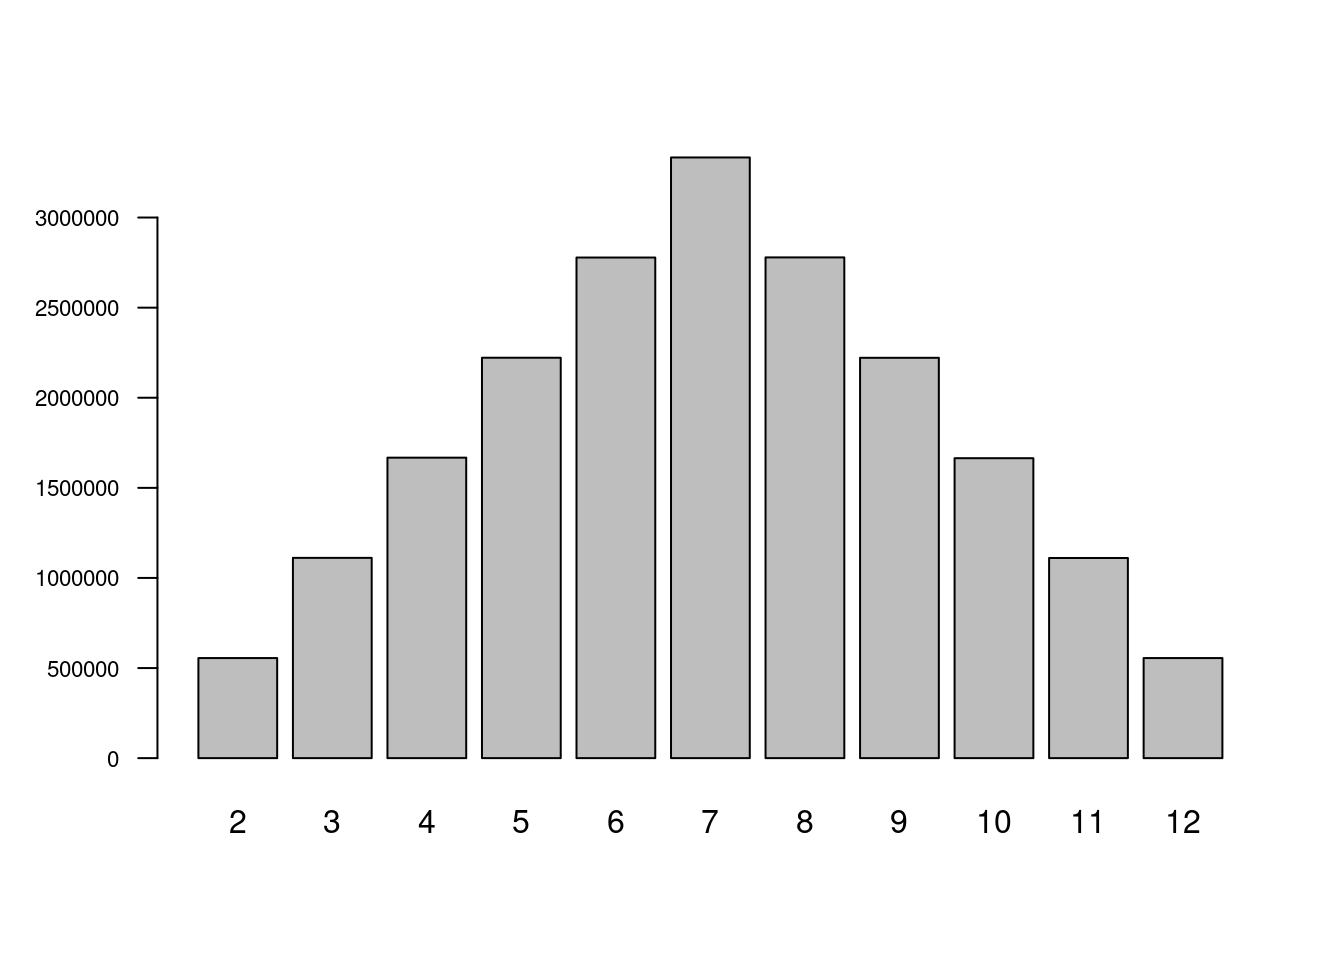
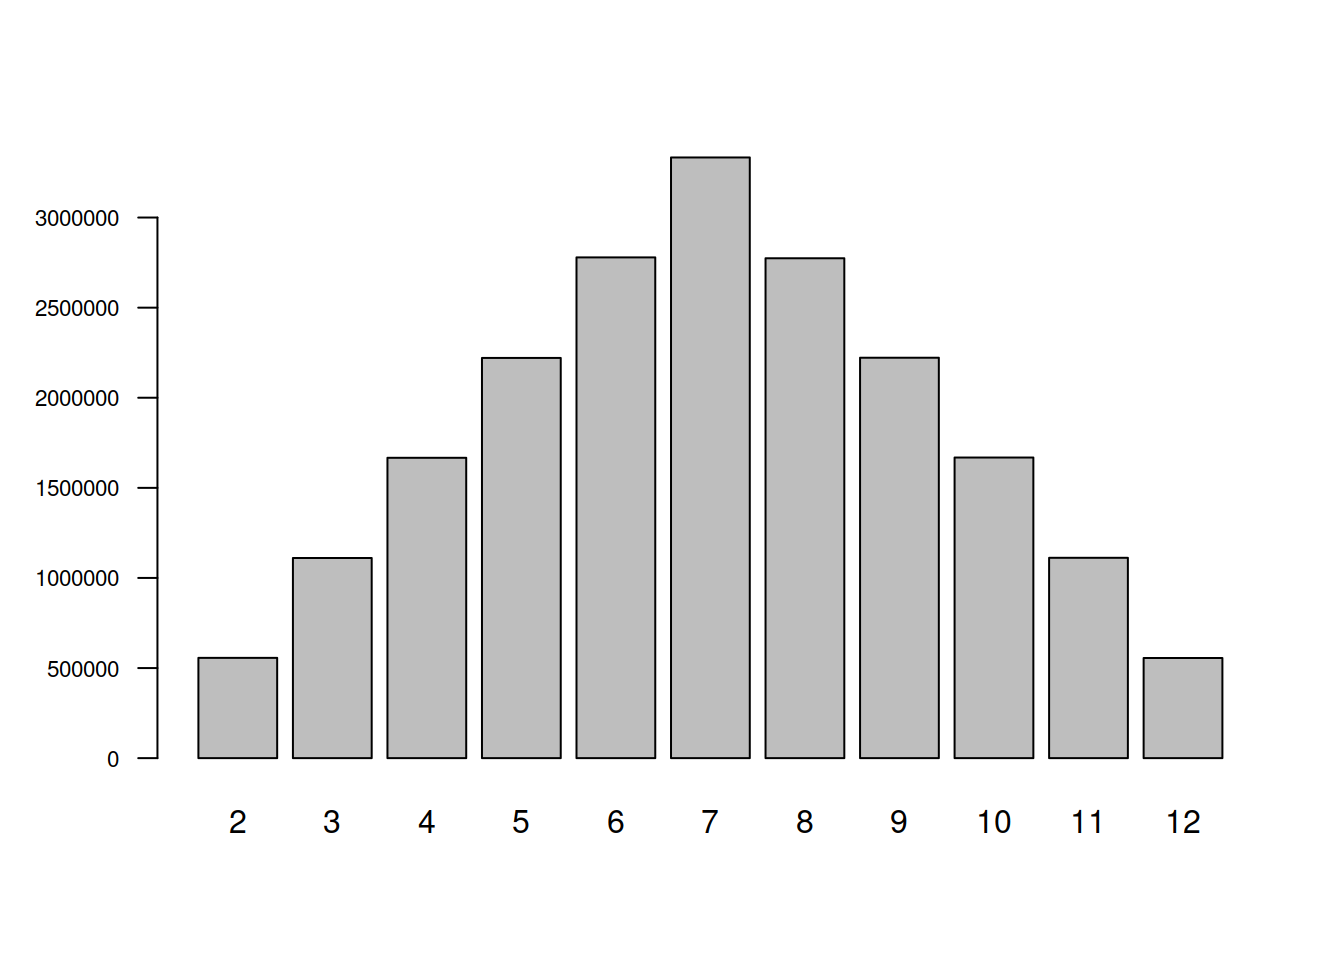
ajustes codigo  201

diff --git a/codigo201.html b/codigo201.html
@@ -615,6 +615,19 @@ div.tocify {
     </li>
   </ul>
 </li>
+<li class="dropdown">
+  <a href="#" class="dropdown-toggle" data-toggle="dropdown" role="button" data-bs-toggle="dropdown" aria-expanded="false">
+    Parciales
+     
+    <span class="caret"></span>
+  </a>
+  <ul class="dropdown-menu" role="menu">
+    <li class="dropdown-header">Segundo parcial</li>
+    <li>
+      <a href="segundo_parcial.html"></a>
+    </li>
+  </ul>
+</li>
       </ul>
       <ul class="nav navbar-nav navbar-right">
         <li>
@@ -706,17 +719,17 @@ barplot(table(suma), las=1,cex.axis=0.7)</code></pre>
 <p><img src="codigo201_files/figure-html/unnamed-chunk-3-1.png" width="672" /></p>
 <pre class="r"><code>data.frame(prop.table(table(suma)))</code></pre>
 <pre><code>   suma       Freq
-1     2 0.02777585
-2     3 0.05557895
-3     4 0.08338395
-4     5 0.11110115
-5     6 0.13890640
-6     7 0.16667970
-7     8 0.13894065
-8     9 0.11109410
-9    10 0.08322200
-10   11 0.05553835
-11   12 0.02777890</code></pre>
+1     2 0.02782745
+2     3 0.05553890
+3     4 0.08334435
+4     5 0.11104325
+5     6 0.13895040
+6     7 0.16668185
+7     8 0.13871075
+8     9 0.11111235
+9    10 0.08342020
+10   11 0.05558630
+11   12 0.02778420</code></pre>
 <p></br></p>
 <p>Procedimiento alternativo</p>
 <pre class="r"><code>t=sapply(1:200, function(x){sum(sample(1:6,2,rep=T))})
@@ -741,7 +754,7 @@ siguiente ejemplo :</p>
 <pre><code>[1] 2 2</code></pre>
 <p>La misma simulación con palabras</p>
 <pre class="r"><code>sample(c(&quot;Blanca&quot;,&quot;Roja&quot;,&quot;Azul&quot;),2,rep=T,prob=c(3,5,4))</code></pre>
-<pre><code>[1] &quot;Roja&quot;   &quot;Blanca&quot;</code></pre>
+<pre><code>[1] &quot;Blanca&quot; &quot;Roja&quot;  </code></pre>
 <p></br></br><br/></p>
 </div>
 </div>
